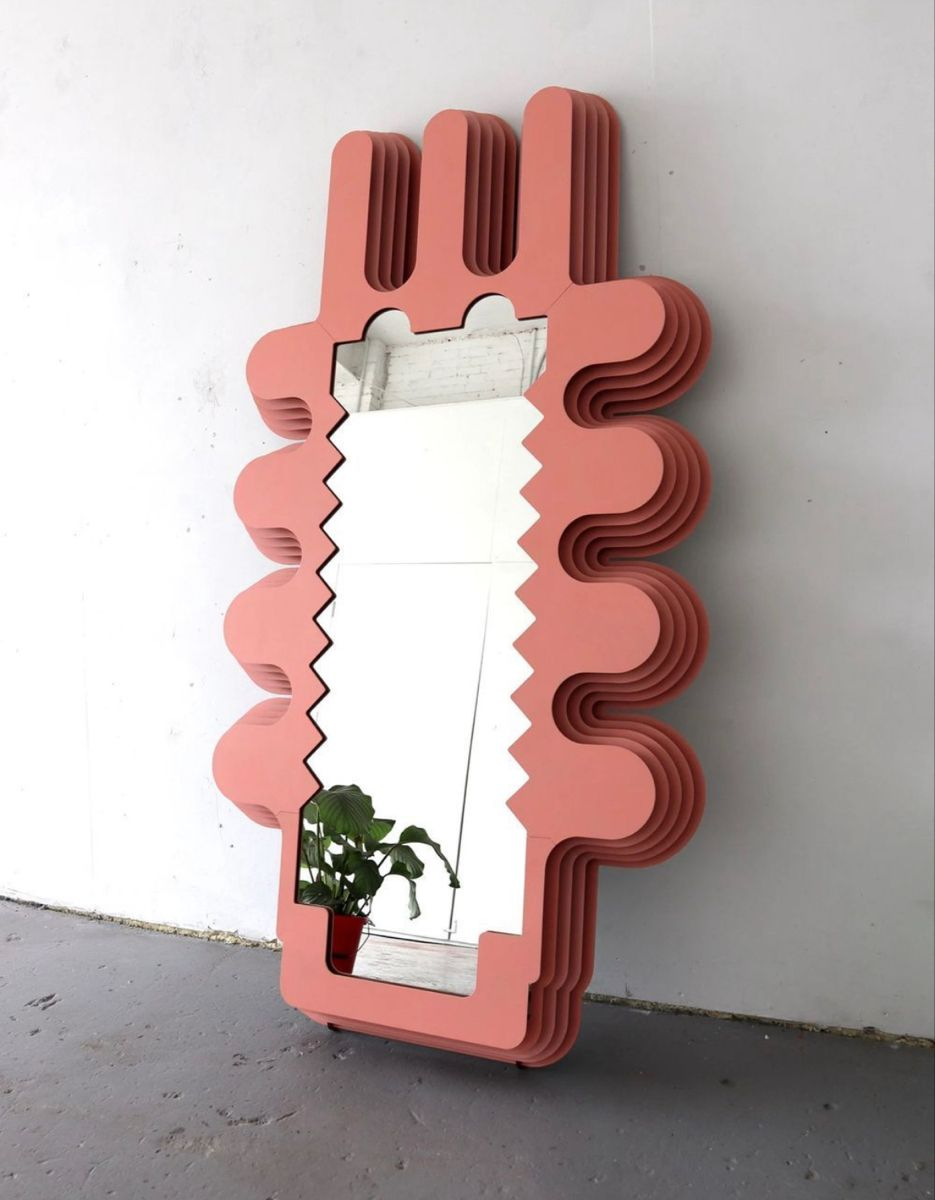
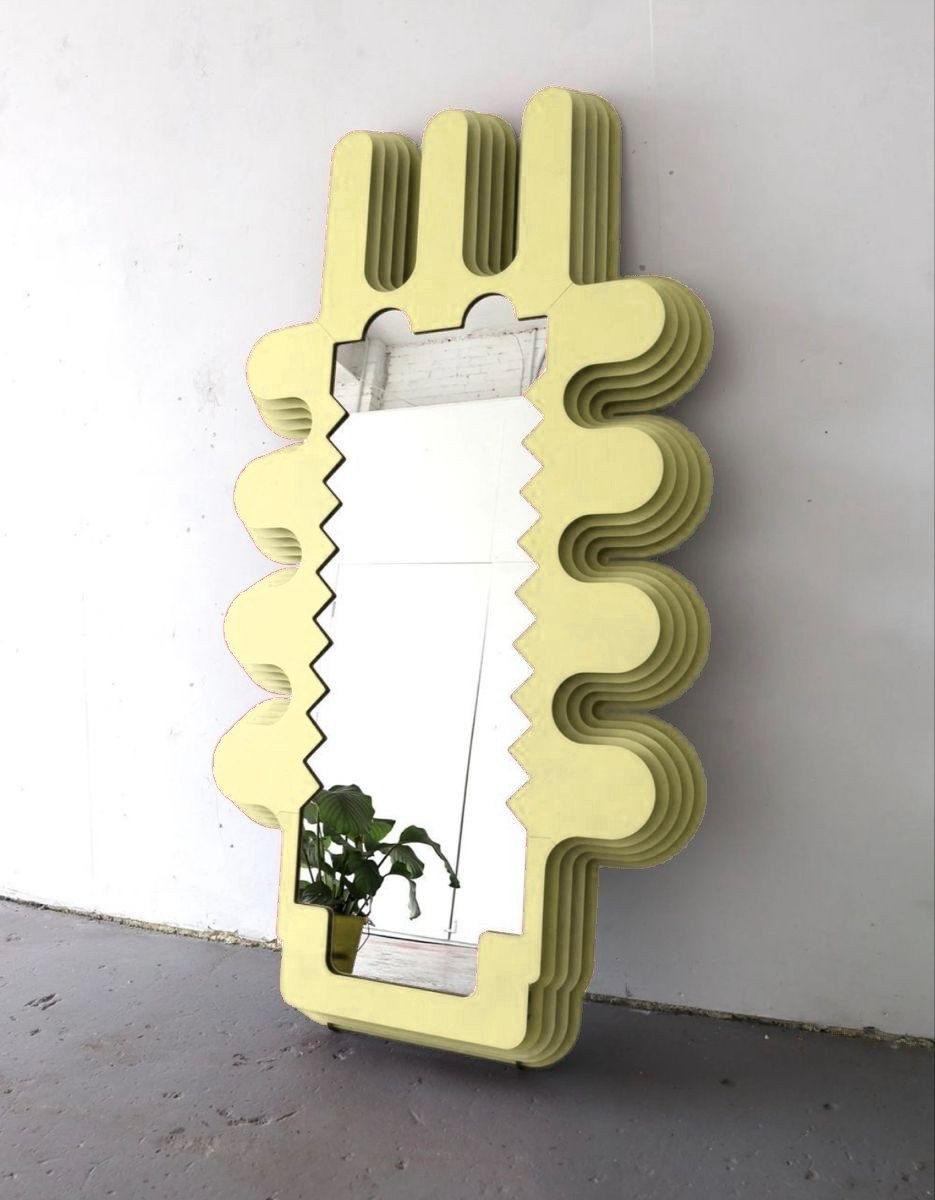
Add Cat + Pickleball Shadow Box; recolour Ripple Mirror to butter yellow
- Ripple Mirror: recoloured coral -> butter yellow, now available with a real
  in-room shot, price and dimensions.
- Cat Got Your Heart: new cherry-red laser-cut steel cat wall object (cut out,
  recoloured) with a styled lifestyle image.
- Pickleball Shadow Box: new made-to-order framed paddle display, with the
  personalised examples as its gallery.

Changed region(s): [[0.2171, 0.0617, 0.7754, 0.8942]]

diff --git a/data/products.ts b/data/products.ts
@@ -350,25 +350,26 @@ export const products: Product[] = [
     category: "Wall Object",
     subcategory: "Mirror",
     tags: ["wall", "mirror"],
-    shortDescription: "A full-length mirror with a stacked, rippling edge.",
+    shortDescription: "A full-length mirror with a stacked, rippling edge, in butter yellow.",
     description:
-      "A tall leaning mirror framed by stacked, rippling layers — like the reflection is sending out rings. Still figuring out the final size and how many layers is too many layers.",
+      "A tall leaning mirror framed by stacked, rippling layers — like the reflection is quietly sending out rings. In a soft butter yellow that warms up a whole corner. Big enough to check your shoes; interesting enough that people look at the frame instead.",
     material: "Layered MDF, mirror glass",
-    finish: "Matte coral",
-    colour: "Coral",
-    dimensions: "TBC",
-    price: null,
+    finish: "Matte butter yellow",
+    colour: "Butter yellow",
+    dimensions: "800 × 1600 × 60 mm",
+    price: 24000,
     currency: "INR",
-    status: "coming-soon",
+    status: "available",
     images: ["/objects/ripple-mirror.jpg"],
     lifestyleImages: [],
-    leadTime: "In development",
-    care: "—",
-    installation: "Leans, or wall-fixed.",
+    imageFit: "cover",
+    leadTime: "Made to order · 2–3 weeks",
+    care: "Glass cleaner on the cloth, never on the frame.",
+    installation: "Leans against the wall, or wall-fixed with the included bracket.",
     featured: false,
     process: STD_PROCESS,
-    seoTitle: "Ripple Mirror — a full-length rippling mirror (coming soon)",
-    seoDescription: "A tall leaning mirror framed by stacked rippling layers. Coming soon.",
+    seoTitle: "Ripple Mirror — a full-length rippling mirror in butter yellow",
+    seoDescription: "A tall leaning mirror framed by stacked rippling layers, in soft butter yellow.",
   },
   {
     id: "p013",
@@ -741,6 +742,70 @@ export const products: Product[] = [
     process: STD_PROCESS,
     seoTitle: "X + O — a brass noughts-and-crosses set",
     seoDescription: "A marble board with solid brass Xs and Os. Wonderfully unnecessary.",
+  },
+  {
+    id: "p025",
+    objectNumber: "025",
+    slug: "cat-got-your-heart",
+    name: "Cat Got Your Heart",
+    shortName: "Cat",
+    category: "Wall Object",
+    subcategory: "Wall art",
+    tags: ["wall"],
+    shortDescription: "A cat, mid-stretch, with a heart cut clean out of it.",
+    description:
+      "A single sheet of steel cut into a cat mid-stretch, tail up, with a heart lifted straight out of its middle — so the wall behind becomes the heart. In a glossy cherry red that reads from across the room. Sentimental, but it refuses to be soppy about it.",
+    material: "Laser-cut steel",
+    finish: "Cherry red powder-coat",
+    colour: "Cherry red",
+    dimensions: "500 × 460 × 3 mm",
+    price: 7500,
+    currency: "INR",
+    status: "available",
+    images: ["/objects/cat-heart.jpg"],
+    lifestyleImages: ["/lifestyle/cat-heart-1.jpg"],
+    imageFit: "cover",
+    leadTime: "Made to order · 2 weeks",
+    care: "Dry cloth. Powder-coat is tough; still, be kind.",
+    installation: "Two keyholes, sits flush to the wall.",
+    featured: false,
+    process: STD_PROCESS,
+    seoTitle: "Cat Got Your Heart — a cherry-red steel cat wall object",
+    seoDescription: "A laser-cut steel cat with a heart cut out of its middle, in cherry red.",
+  },
+  {
+    id: "p026",
+    objectNumber: "026",
+    slug: "pickleball-shadow-box",
+    name: "Pickleball Shadow Box",
+    shortName: "Pickleball Box",
+    category: "Wall Object",
+    subcategory: "Frame",
+    tags: ["wall", "frame"],
+    shortDescription: "Your paddle, framed like it won something. Made to order.",
+    description:
+      "A deep wooden shadow box that turns a pickleball paddle into wall art — court lines, acrylic mounts, and the ball floating beside it. Personalise it: a club crest, a final score, the names of whoever you keep losing to. Made to order, one at a time.",
+    material: "Oak shadow box, acrylic mounts",
+    finish: "Oiled oak / court felt",
+    colour: "Green or clay court",
+    dimensions: "300 × 600 × 60 mm",
+    price: 9500,
+    currency: "INR",
+    status: "preorder",
+    images: ["/objects/pickleball-shadow-box.jpg"],
+    lifestyleImages: [
+      "/lifestyle/pickleball-1.jpg",
+      "/lifestyle/pickleball-2.jpg",
+      "/lifestyle/pickleball-3.jpg",
+    ],
+    imageFit: "cover",
+    leadTime: "Preorder · made to order in ~3 weeks",
+    care: "Dust the glass. Don't actually play with the framed one.",
+    installation: "Two wall fixings; hangs like a picture.",
+    featured: false,
+    process: STD_PROCESS,
+    seoTitle: "Pickleball Shadow Box — a custom framed paddle display",
+    seoDescription: "A made-to-order wooden shadow box that frames a pickleball paddle, personalised with names, scores or a club crest.",
   },
 ];
 
